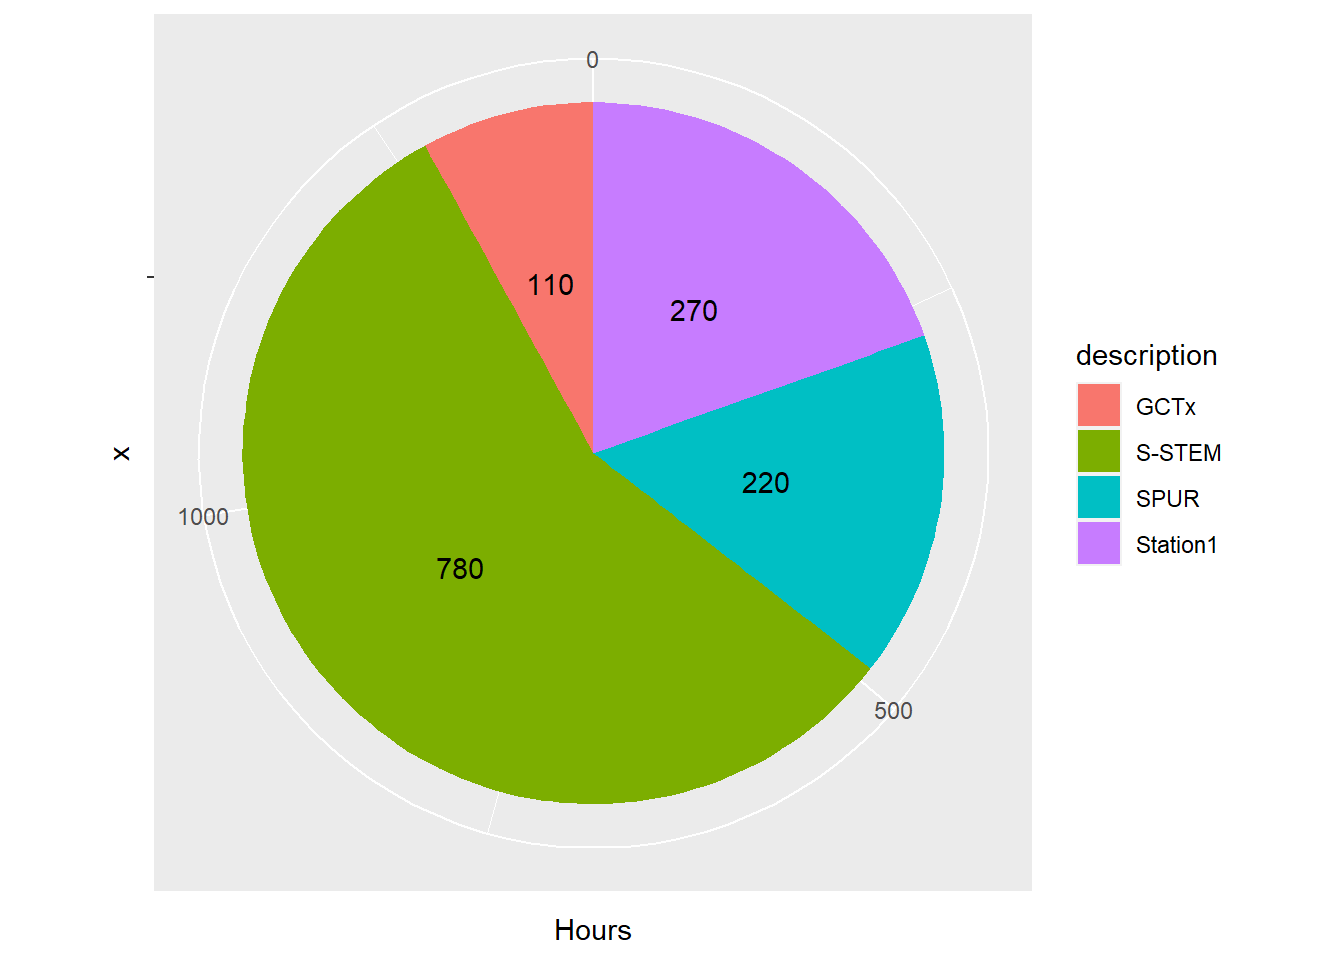
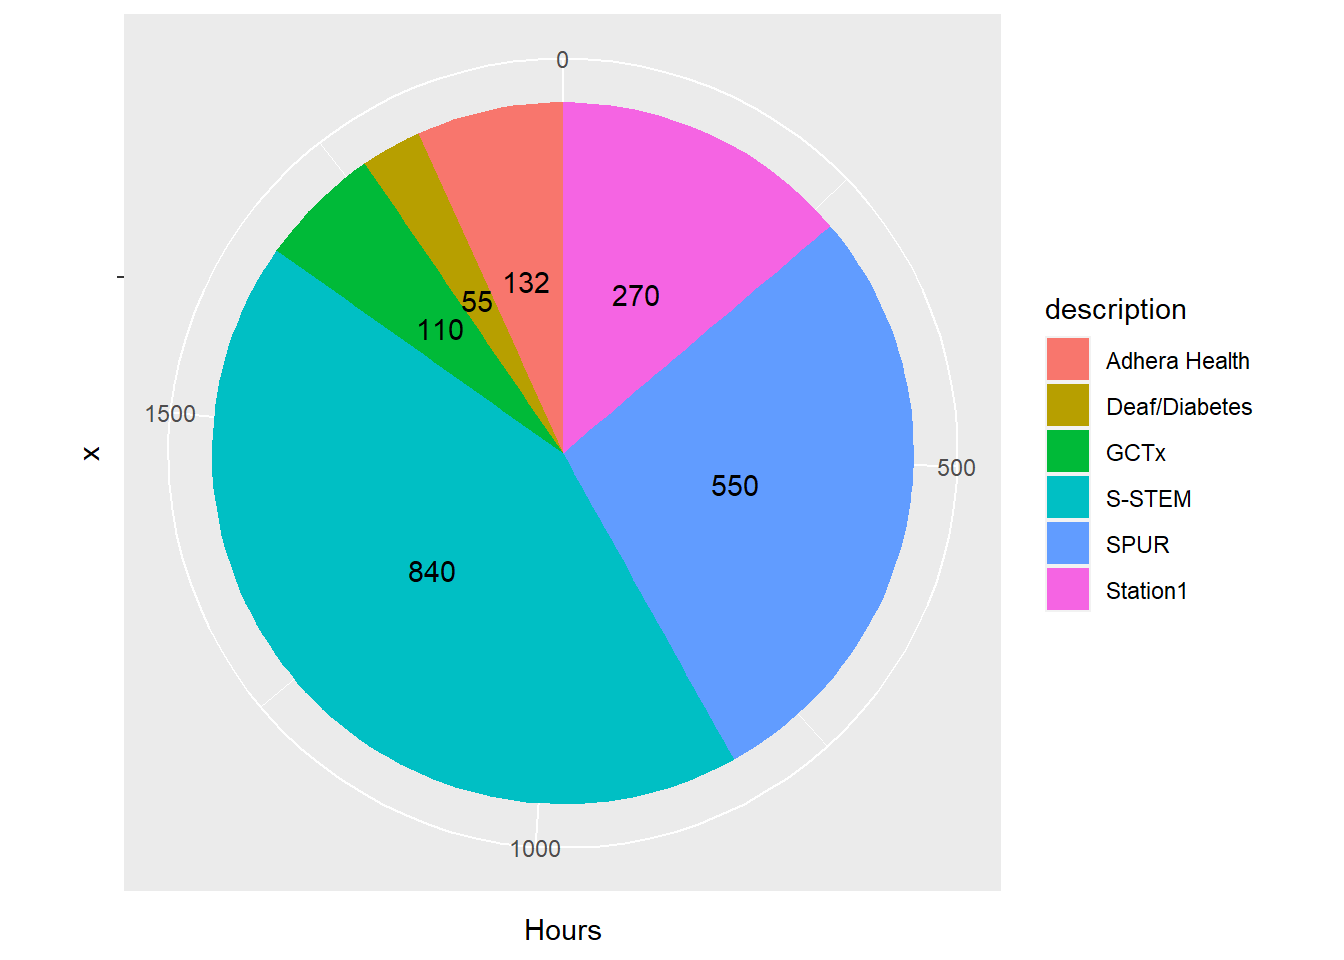
adjusting med hours

diff --git a/docs/med/research/research.html b/docs/med/research/research.html
@@ -141,6 +141,10 @@ gtag('config', 'G-KXEXV9F02B', { 'anonymize_ip': true});
     <a class="dropdown-item" href="../../rproj/2023_asmcue/asmcue.html" rel="" target="">
  <span class="dropdown-text">ASMCUE 2023</span></a>
   </li>  
+        <li>
+    <a class="dropdown-item" href="../../rproj/2023_abrcms/abrcms.html" rel="" target="">
+ <span class="dropdown-text">ABRCMS 2023</span></a>
+  </li>  
     </ul>
   </li>
   <li class="nav-item">
@@ -227,7 +231,7 @@ gtag('config', 'G-KXEXV9F02B', { 'anonymize_ip': true});
   <li><a href="#description-2" id="toc-description-2" class="nav-link" data-scroll-target="#description-2">Description</a></li>
   <li><a href="#learnings-2" id="toc-learnings-2" class="nav-link" data-scroll-target="#learnings-2">Learnings</a></li>
   </ul></li>
-  <li><a href="#summer-program-for-undergraduate-research-spur-httpsour.utah.eduresearch-scholarship-opportunitiesspur" id="toc-summer-program-for-undergraduate-research-spur-httpsour.utah.eduresearch-scholarship-opportunitiesspur" class="nav-link" data-scroll-target="#summer-program-for-undergraduate-research-spur-httpsour.utah.eduresearch-scholarship-opportunitiesspur">Summer Program for Undergraduate Research [SPUR (https://our.utah.edu/research-scholarship-opportunities/spur/)]</a>
+  <li><a href="#summer-program-for-undergraduate-research-spur" id="toc-summer-program-for-undergraduate-research-spur" class="nav-link" data-scroll-target="#summer-program-for-undergraduate-research-spur">Summer Program for Undergraduate Research SPUR</a>
   <ul class="collapse">
   <li><a href="#description-3" id="toc-description-3" class="nav-link" data-scroll-target="#description-3">Description</a></li>
   <li><a href="#learnings-3" id="toc-learnings-3" class="nav-link" data-scroll-target="#learnings-3">Learnings</a></li>
@@ -257,7 +261,7 @@ gtag('config', 'G-KXEXV9F02B', { 'anonymize_ip': true});
 
 <section id="pie-chart" class="level2">
 <h2 class="anchored" data-anchor-id="pie-chart">Pie Chart</h2>
-<p>As of <strong>June 22, 2023</strong>, I have spent <strong>1330</strong> hours doing research. <br> <br></p>
+<p>As of <strong>November 14, 2023</strong>, I have spent <strong>1957</strong> hours doing research. <br> <br></p>
 <center>
 <div class="cell">
 <div class="cell-output-display">
@@ -304,8 +308,8 @@ gtag('config', 'G-KXEXV9F02B', { 'anonymize_ip': true});
 <p>Much as before, this was an experience that was totally virtual with even less meetings with our advisors. This helped me improve on my self motivation regarding research. Also, we were expected to do almost double the work in less than half the amount of time that we had in the summer, requiring better, more concise research. Lastly, this all occurred during 2 busy school semesters that both included 16 credit hours and Organic Chemistry. I had to learn how to effectively manage so many things on my plate at the time.</p>
 </section>
 </section>
-<section id="summer-program-for-undergraduate-research-spur-httpsour.utah.eduresearch-scholarship-opportunitiesspur" class="level2">
-<h2 class="anchored" data-anchor-id="summer-program-for-undergraduate-research-spur-httpsour.utah.eduresearch-scholarship-opportunitiesspur">Summer Program for Undergraduate Research [SPUR (https://our.utah.edu/research-scholarship-opportunities/spur/)]</h2>
+<section id="summer-program-for-undergraduate-research-spur" class="level2">
+<h2 class="anchored" data-anchor-id="summer-program-for-undergraduate-research-spur">Summer Program for Undergraduate Research <a href="https://our.utah.edu/research-scholarship-opportunities/spur/">SPUR</a></h2>
 <section id="description-3" class="level3">
 <h3 class="anchored" data-anchor-id="description-3">Description</h3>
 <p>“SPUR is a nationally competitive opportunity that provides undergraduate students with an intensive 10-week summer research experience under the mentorship of a University of Utah faculty member. The program provides opportunities to gain research experience in a variety of disciplines.”</p>

diff --git a/docs/med/service/service.html b/docs/med/service/service.html
@@ -137,6 +137,14 @@ gtag('config', 'G-KXEXV9F02B', { 'anonymize_ip': true});
     <a class="dropdown-item" href="../../rproj/2023_saber/home.html" rel="" target="">
  <span class="dropdown-text">SABER 2023</span></a>
   </li>  
+        <li>
+    <a class="dropdown-item" href="../../rproj/2023_asmcue/asmcue.html" rel="" target="">
+ <span class="dropdown-text">ASMCUE 2023</span></a>
+  </li>  
+        <li>
+    <a class="dropdown-item" href="../../rproj/2023_abrcms/abrcms.html" rel="" target="">
+ <span class="dropdown-text">ABRCMS 2023</span></a>
+  </li>  
     </ul>
   </li>
   <li class="nav-item">
@@ -263,7 +271,7 @@ gtag('config', 'G-KXEXV9F02B', { 'anonymize_ip': true});
 
 <section id="pie-chart" class="level2">
 <h2 class="anchored" data-anchor-id="pie-chart">Pie Chart</h2>
-<p>As of <strong>June 22, 2023</strong>, I have spent <strong>299</strong> hours doing volunteer service. <br> <br></p>
+<p>As of <strong>November 14, 2023</strong>, I have spent <strong>353</strong> hours doing volunteer service. <br> <br></p>
 <center>
 <div class="cell">
 <div class="cell-output-display">
